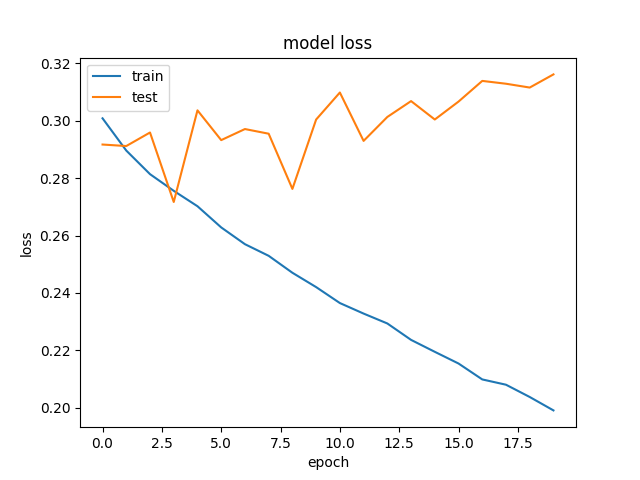
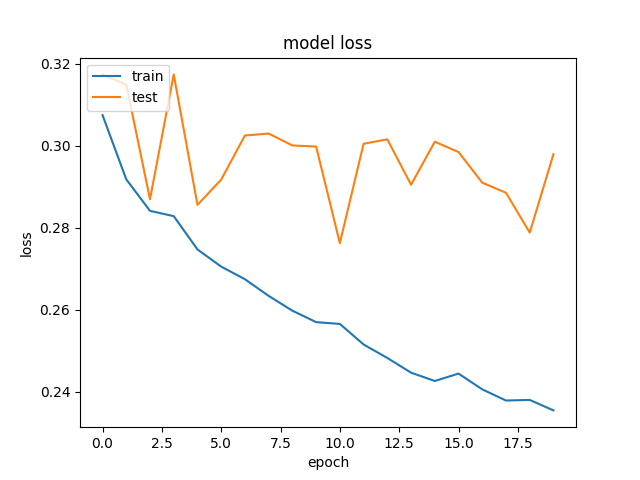
test

diff --git a/Siamese_Model.py b/Siamese_Model.py
@@ -97,7 +97,9 @@ if G <= 1:
 
     model1 = saved_model.load_keras_model(save_dir + checkpoints[-1])
     model1.layers.pop()
-    model2 = Model(model1.input, model1.output)
+    x = model1.output
+    x = Dense(1024, activation= 'relu', name= 'features')(x)
+    model2 = Model(model1.input, x)
 
     input_a = Input(shape=(100, 40, 3))
     input_b = Input(shape=(100, 40, 3))
@@ -150,8 +152,8 @@ start = time.time()
 
 filename2 = filename2[:-4 - len(str(counter - 1))] + str(counter) + filename2[-4:]
 
-data = np.memmap('pairs_data.array', dtype=np.float64, mode='r+', shape=(29539, 2, 100, 40, 3))
-labels = np.memmap('pairs_labels.array', dtype= np.float64, mode= 'r+', shape= (29539, ))
+data = np.memmap('pairs_data.array', dtype=np.float64, mode='r+', shape=(35000, 2, 100, 40, 3))
+labels = np.memmap('pairs_labels.array', dtype= np.float64, mode= 'r+', shape= (35000, ))
 
 
 print("[INFO] Finished Loading Data")

diff --git a/Preprocessing3.py b/Preprocessing3.py
@@ -18,7 +18,7 @@ first_count = 0
 count = 0
 start_time = 0
 elapsed_time = 0
-batch_size = 500
+batch_size = 5000
 batch_ptr = batch_size
 counter = 1
 dirs_count=0
